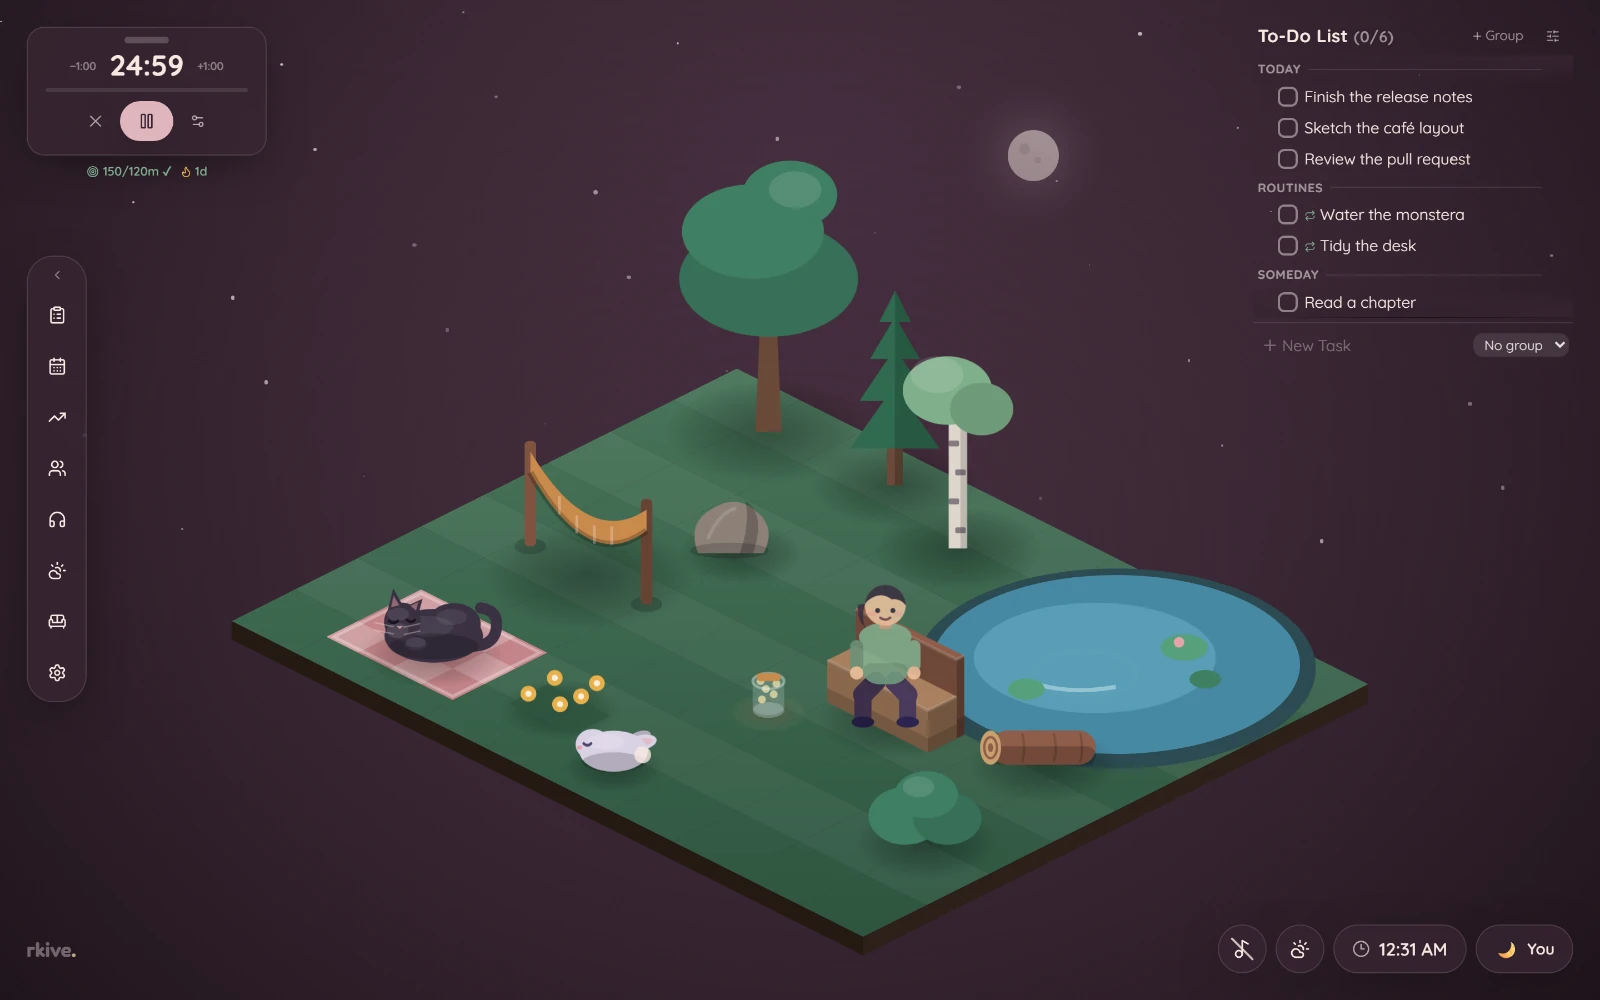
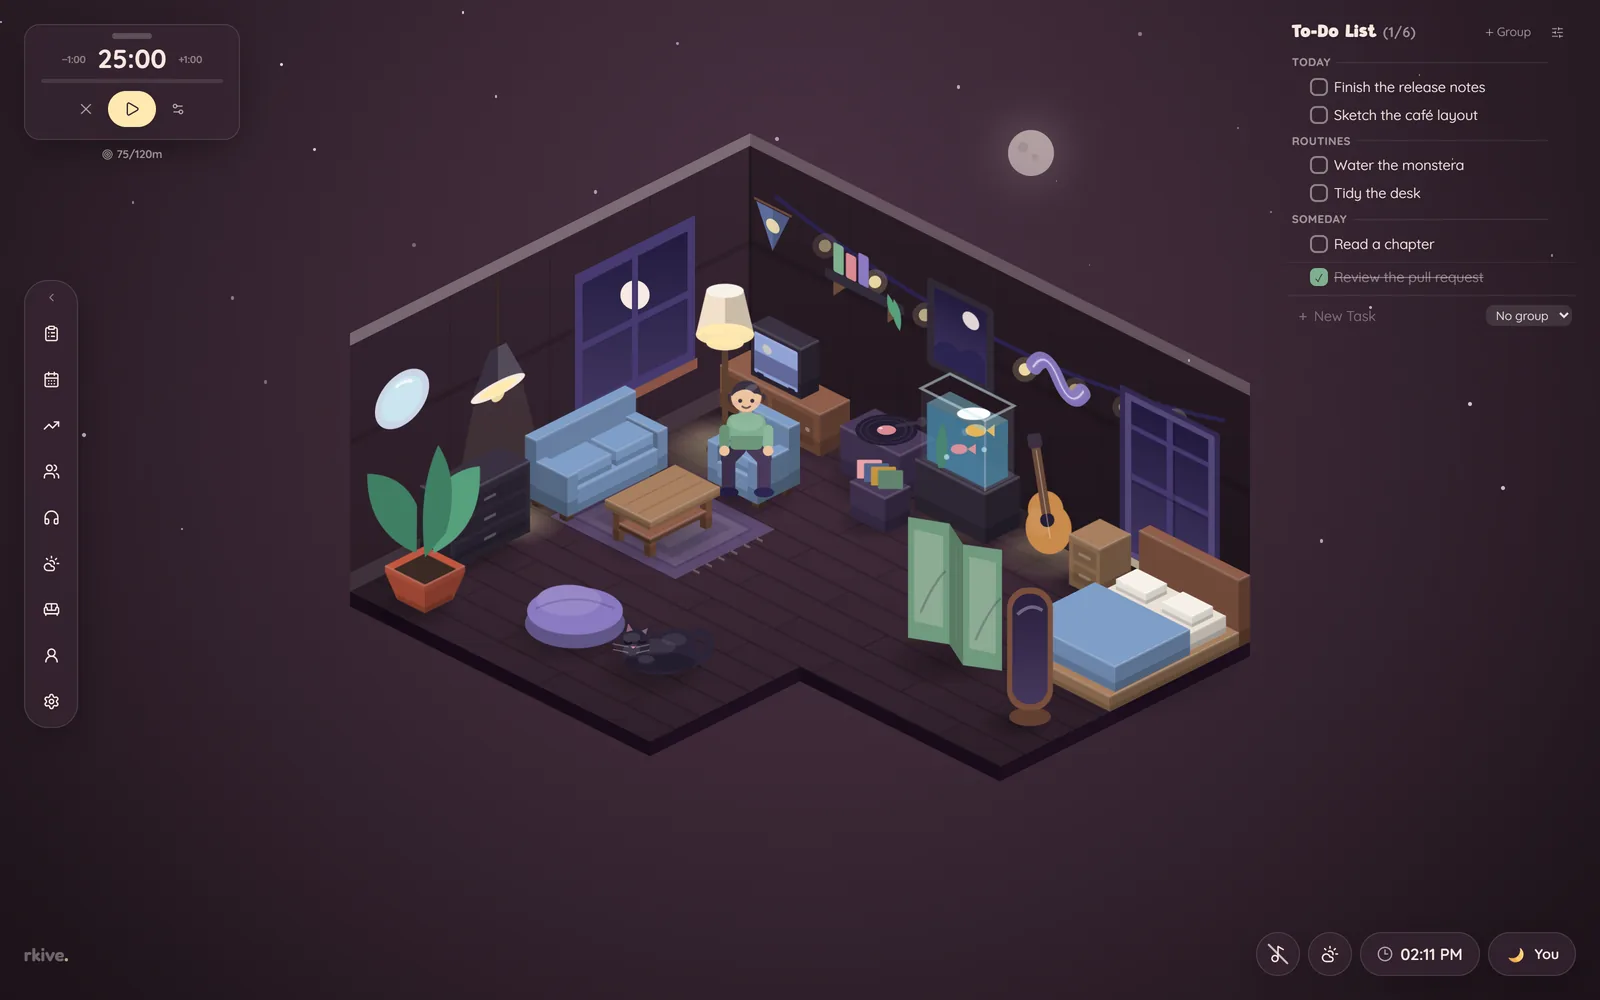
- updated preview pictures with new design

diff --git a/docs/screenshots/README.md b/docs/screenshots/README.md
@@ -11,31 +11,47 @@ The README's hero image is `../preview.png` — the same capture, as PNG.
 
 Each is a one-click preset: floor size, shape, environment and furniture all
 replaced together. They're kept deliberately clean — around fifteen pieces —
-so a room reads as somewhere you could sit rather than as a showroom.
+so a room reads as somewhere you could sit rather than as a showroom. Your
+own resident is dropped in from the picker and sat down where a person would
+actually sit; the communal rooms come with people already in them.
 
 | | |
 |---|---|
-| ![Loft](01-loft-night.webp) **Loft** — the default. An L-shaped attic at night, a tall window and a screen dividing off the bed. | ![Cozy study](02-cozy-study.webp) **Cozy study** — desk under the window, resident working at it, an easel in the corner. |
-| ![Morning café](03-cafe.webp) **Morning café** — counter run with an espresso machine, chairs turned in to face each other. | ![Reading room](04-reading-room.webp) **Reading room** — an arched way through, a tall window, shelves and ladders either side. |
-| ![Corner café](05-corner-cafe.webp) **Corner café** — a bar run under the menu board, and one table across the open floor. | ![Secret garden](06-garden-day.webp) **Secret garden** — open air: a pond to sit by, a hammock, and the cat on a blanket. |
-| ![Terrace](07-terrace-sunset.webp) **Terrace** — waist-high balustrade instead of walls, flagstones, string lights. | ![Cozy cabin](08-cabin-snow.webp) **Cozy cabin** — lit hearth with the dog asleep in front of it, snow outside. |
-| ![Study hall](09-study-hall.webp) **Study hall** — 16×12, four tables with room to spare, pillars flanking the arch, a piano in the corner. | ![Autumn yard](10-autumn-yard.webp) **Autumn yard** — the seasonal one: maples, a half-raked leaf pile, pumpkins by the hay bale. |
+| ![Loft](01-loft-night.webp) **Loft** — the default. An L-shaped attic at night: sofa and aquarium one side, bed behind a screen the other. | ![Cozy study](02-cozy-study.webp) **Cozy study** — desk under the window, you working at it, an easel in the corner and the cat on the rug. |
+| ![Cozy cabin](03-cozy-cabin.webp) **Cozy cabin** — lit hearth with the dog asleep in front of it, snow falling outside. | ![Reading room](04-reading-room.webp) **Reading room** — an arched way through, tall windows, shelves and ladders either side. |
+| ![Corner café](05-corner-cafe.webp) **Corner café** — a bar run under the menu board, tables across the open floor, someone already served. | ![Secret garden](06-secret-garden.webp) **Secret garden** — open air: a pond to sit by, a hammock, and the cat on a blanket. |
+| ![Terrace](07-terrace.webp) **Terrace** — waist-high balustrade instead of walls, flagstones, string lights at sunset. | ![Study hall](08-study-hall.webp) **Study hall** — 16×12, four tables with room to spare, pillars flanking the arch, a piano in the corner. |
+| ![Autumn yard](09-autumn-yard.webp) **Autumn yard** — the seasonal one: maples, a half-raked leaf pile, pumpkins by the hay bale. | |
 
 ## Weather & time of day
 
-The same room in five conditions — one tap sets both the weather and the hour.
+The same room in five conditions — one tap in the Weather panel's matrix sets
+both the weather and the hour.
 
 | | |
 |---|---|
-| ![Rain](11-rain-night.webp) **Rain at night** | ![Storm](12-storm.webp) **Storm** — heavy cloud, lightning |
-| ![Falling leaves](13-falling-leaves.webp) **Falling leaves at sunset** | ![Snow](14-snow.webp) **Snow** |
-| ![Cloudy](15-cloudy-sunset.webp) **Cloudy at sunset** | |
+| ![Rain](10-rain-night.webp) **Rain at night** | ![Storm](11-storm.webp) **Storm** — heavy cloud, lightning |
+| ![Snow](12-snow-day.webp) **Snow by day** | ![Cloudy](13-cloudy-sunset.webp) **Cloudy at sunset** |
+| ![Clear](14-clear-night.webp) **Clear night** — stars, and the odd shooting one | |
+
+## Making it yours
+
+| | |
+|---|---|
+| ![Your character](22-character.webp) **Your character** — two models, nine hairstyles, skin/hair/outfit colours, expression, body sliders, and who's allowed to visit. | ![Room presets](23-room-panel.webp) **Rooms** — start from a preset, then resize the floor, pick its material and choose whether it has walls at all. |
+| ![Furniture](24-furniture.webp) **Furniture** — 130-odd pieces in themed sections, each button a live miniature of the thing it places. | ![Decorating](25-decorating.webp) **Decorating** — draw the floor plan tile by tile, then drag furniture across the grid. |
+
+## Friends & visiting
+
+| | |
+|---|---|
+| ![Friends](26-friends.webp) **Friends** — who's about, what they're up to right now, and whose door is open. | ![Visiting](27-visiting.webp) **Visiting** — walk into someone else's room, and drag yourself over to sit with them. |
 
 ## Features
 
 | | |
 |---|---|
-| ![Tasks](16-tasks.webp) **Tasks** — groups, priorities, durations, routines, five ordering algorithms | ![Timer](17-focus-timer.webp) **Focus timer** — durations, Pomodoro, stopwatch, daily goal and streak |
-| ![Sounds](18-sounds-and-music.webp) **Sounds** — lofi stations plus a procedural ambient mixer | ![Progress](19-progress.webp) **Progress** — goal ring, focus time, productivity garden, break nudge |
-| ![Calendar](20-calendar.webp) **Calendar** — schedule tasks across days | ![Weather](21-weather.webp) **Weather** — real conditions via Open-Meteo, and the scene matrix |
-| ![Themes](22-themes.webp) **Settings** — colour schemes, brightness, motion | ![Decorating](23-decorating.webp) **Decorating** — draw the floor plan, then drag from a 131-piece catalog |
+| ![Tasks](15-tasks.webp) **Tasks** — groups, priorities, durations, routines, five ordering algorithms | ![Timer](16-focus-timer.webp) **Focus timer** — durations, Pomodoro, stopwatch, daily goal and streak (and the room notices you working) |
+| ![Sounds](17-sounds.webp) **Sounds** — lofi stations plus a procedural ambient mixer | ![Progress](18-progress.webp) **Progress** — goal ring, focus time, 18-week heatmap, break nudge |
+| ![Calendar](19-calendar.webp) **Calendar** — days shaded by how much you focused, and what each one went on | ![Weather](20-weather.webp) **Weather** — real conditions via Open-Meteo, and the scene matrix |
+| ![Settings](21-settings.webp) **Settings** — colour schemes, brightness, motion | |

diff --git a/README.md b/README.md
@@ -9,10 +9,10 @@ scene between night, sunset, and day — or let TaskNook check the real weather
 where you are and match it automatically. Watch your productivity garden grow
 — and cheer on your friends while you're at it.
 
-![An isometric loft at night — a sofa, bed and aquarium under string lights, someone sitting reading, a cat asleep on the floor, with a focus timer and to-do list overlaid](docs/preview.png)
+![An isometric study — someone sitting at a desk under the window with a mug beside them, an easel in the corner, a cat asleep on the rug, with a focus timer and to-do list overlaid](docs/preview.png)
 
 > More of it: **[screenshots](docs/screenshots/)** — every room preset, the
-> weather modes, and the panels.
+> weather modes, visiting a friend, and the panels.
 
 > **Just want to use it?** Download **`TaskNook.exe`** from the repo root and
 > double-click it — that's the whole app in one file, no Python or Node needed.
